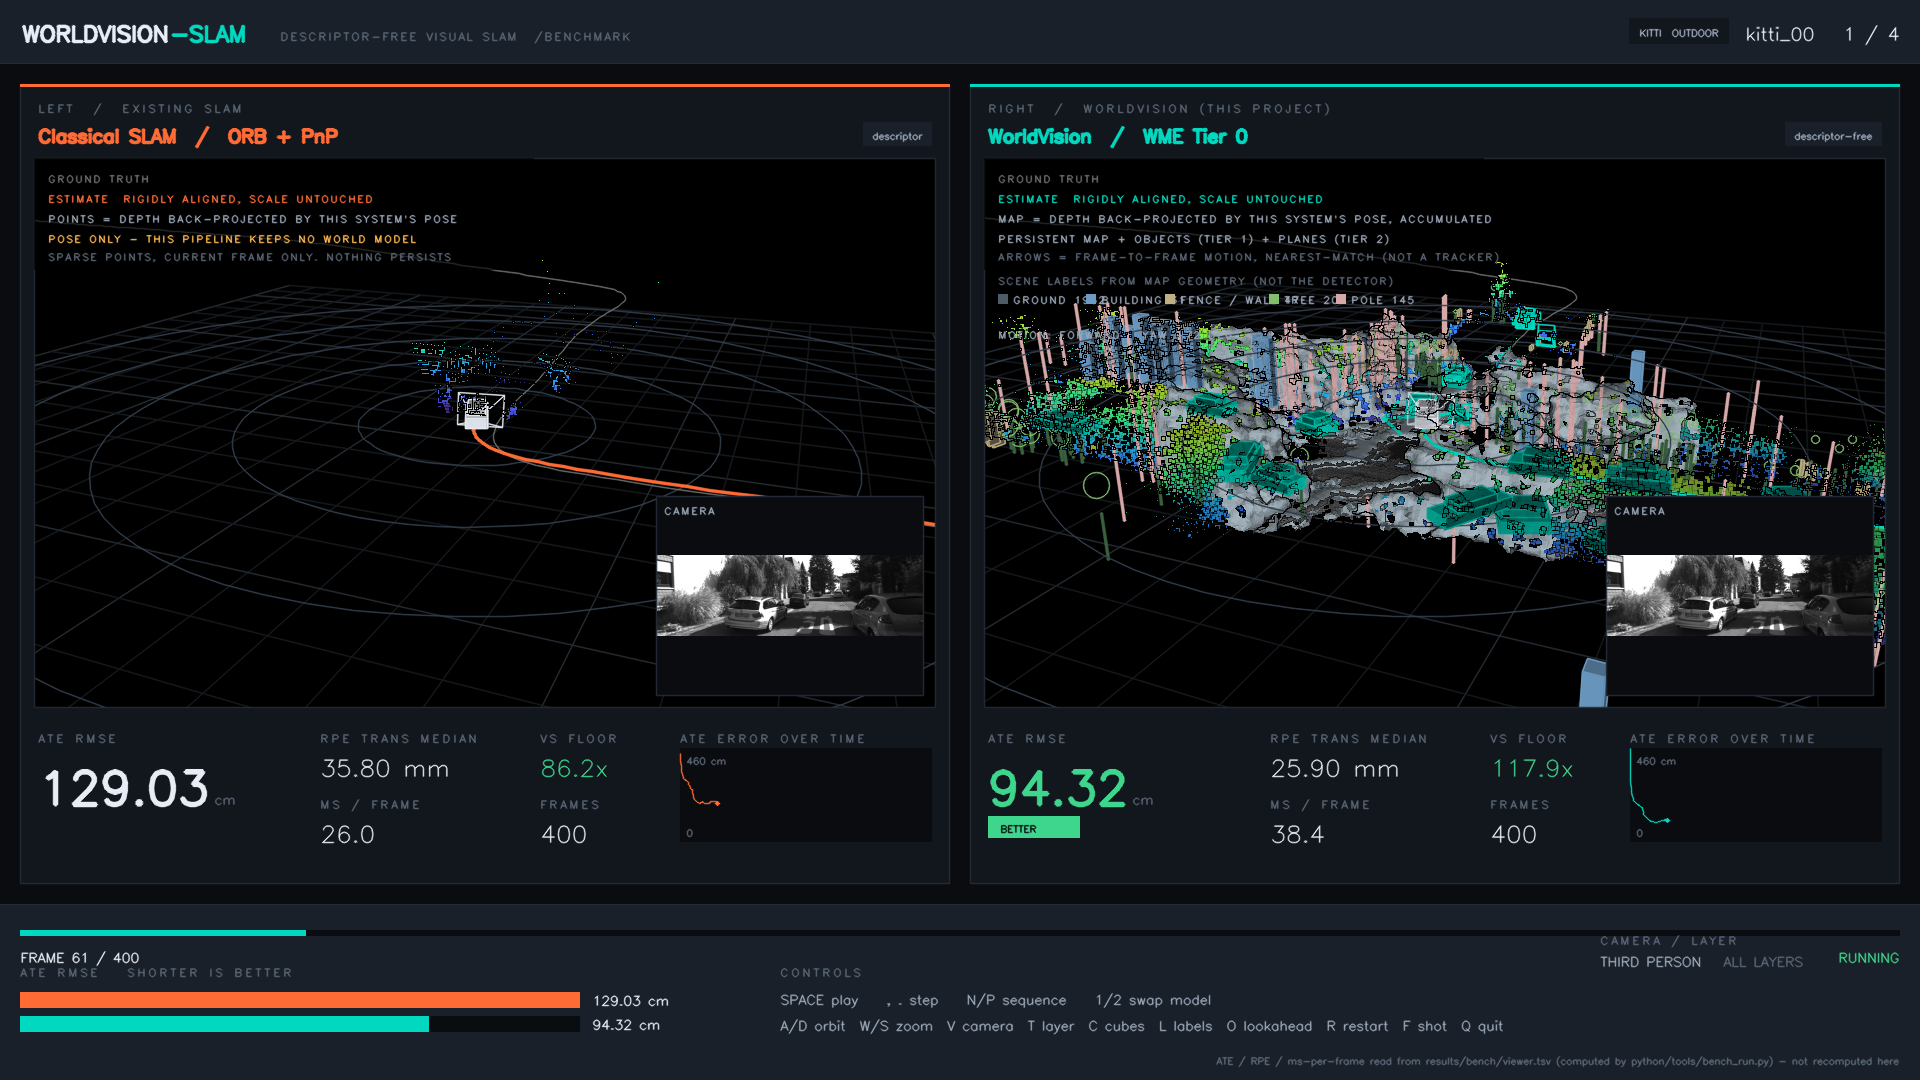
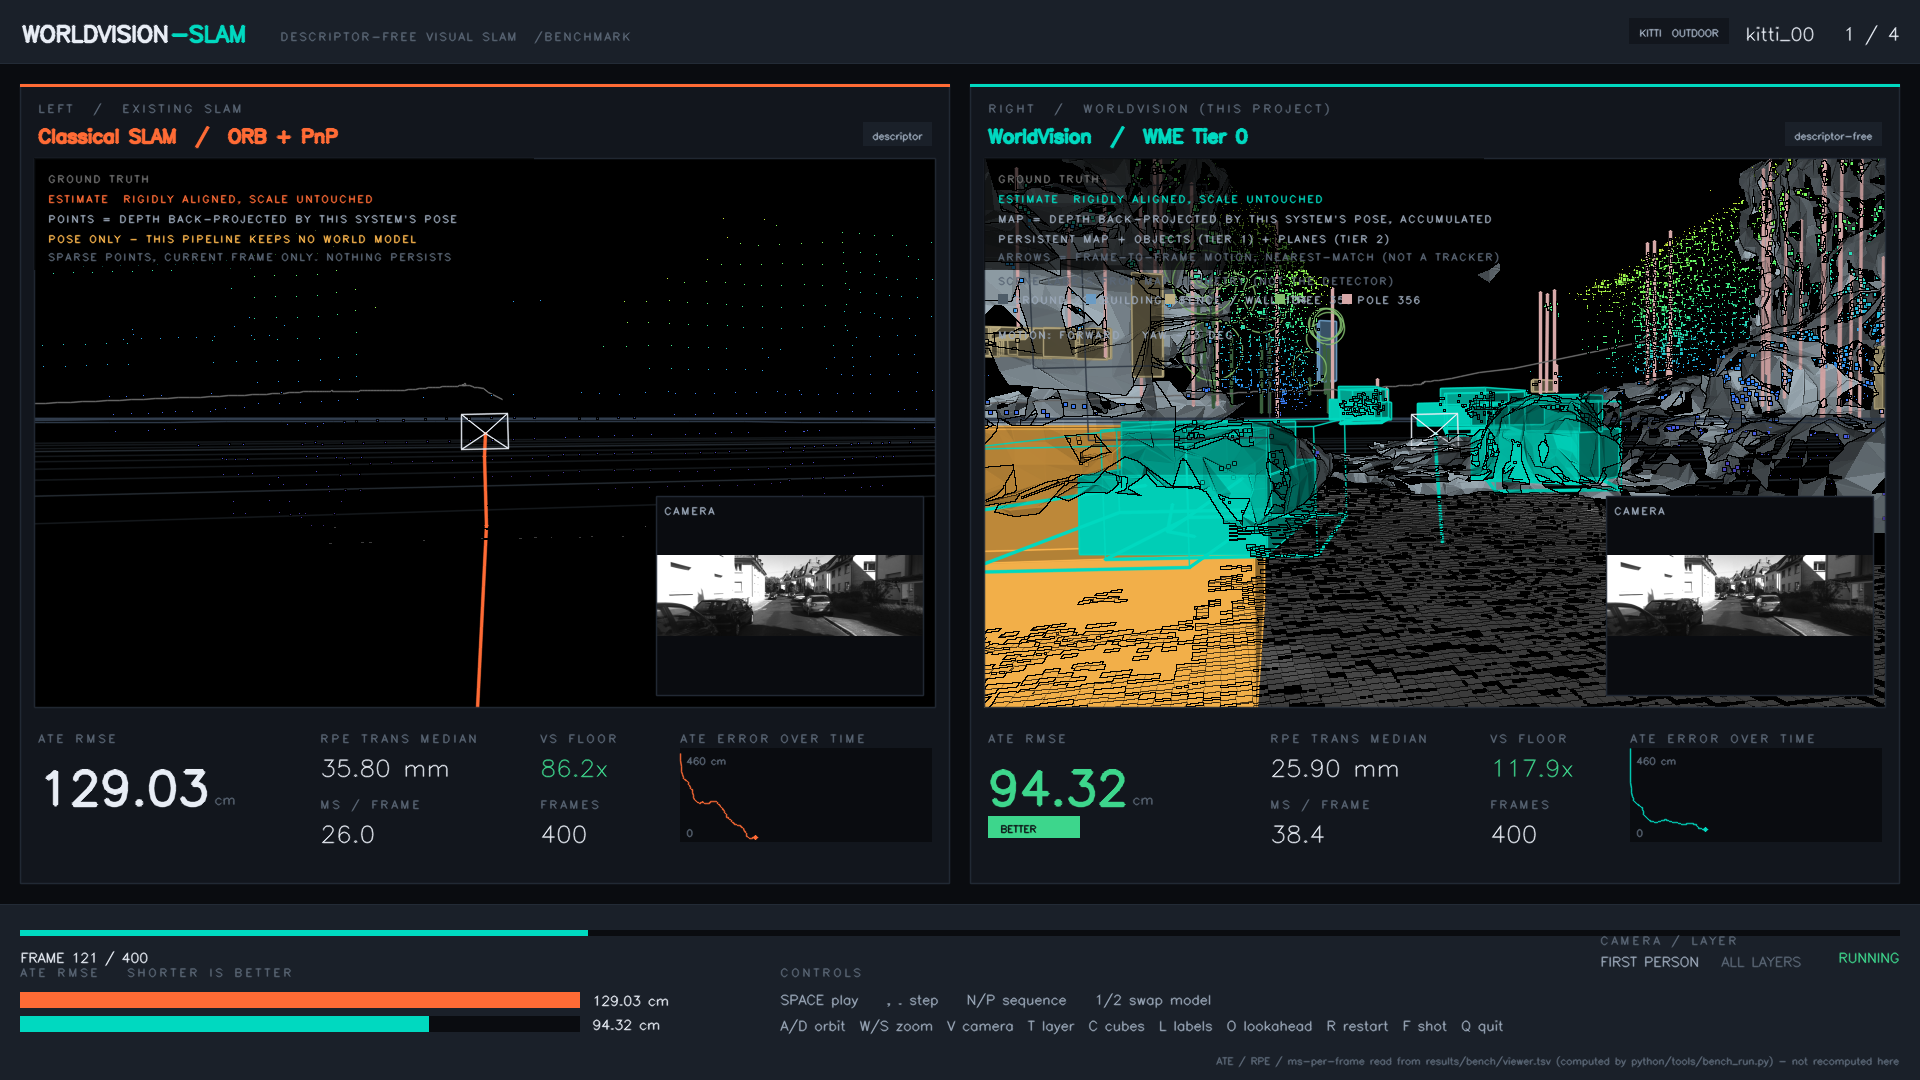
The road was being meshed into boulders, and the mesh had no smoothing
Two defects, reported as "the ground looks wrong".

The surface mesh was built over the whole map, road included. The road
is already drawn as a flat intensity texture, so meshing it again turned
a flat street into lumpy rock following every stereo artefact. Ground
voxels are excluded now - anything below 40 cm over the reference plane
belongs to the road layer, not the volume.

Triangles could also span empty space. Cells adjacent in the grid can
hold vertices anywhere inside themselves, so a pair could sit far apart
and the triangle between them bridged a stretch with no observation at
all - large angular slabs of nothing. Edges are capped at twice the
voxel size.

And the mesh had no smoothing, because I had implemented the "naive"
variant, which is naive precisely in dropping the relaxation that
Gibson's paper is about. Centroids of edge crossings are exactly as
rough as their input, and a stereo map is rough. Each vertex now moves
toward the mean of its six neighbours over four passes, clamped to stay
inside its own cell - that clamp is Gibson's actual point: without it
the surface shrinks and thin structure vanishes; with it noise flattens
and detail survives. Normals are recomputed afterwards, since the old
ones described the old positions.

The road's brightness floor was raised as well. Asphalt really is dark,
so mapping intensity straight through left the whole surface reading as
black tiles, indistinguishable from empty space. The squared response
[…]

diff --git a/tools/bench_viewer.cpp b/tools/bench_viewer.cpp
@@ -965,12 +965,17 @@ struct SurfMesh {
 using DensField = std::unordered_map<std::int64_t, std::uint8_t>;
 
 inline DensField buildDensity(const std::unordered_map<std::int64_t, Splat>& cells,
-                              float voxel, const Eigen::Vector3f& e, float r2) {
+                              float voxel, const Eigen::Vector3f& e, float r2,
+                              const Eigen::Vector3f& up, float hmin) {
     DensField d;
     d.reserve(cells.size() * 3);
     const float inv = 1.0f / voxel;
     for (const auto& [k, v] : cells) {
         if ((v.p - e).squaredNorm() > r2) continue;
+        // **노면은 메시에 넣지 않는다.** 도로는 이미 밝기 텍스처로 그린다.
+        // 같은 것을 메시로 또 만들면, 평평해야 할 노면이 스테레오 잡음을 따라
+        // 울퉁불퉁한 바위 덩어리가 된다 - 실제로 그렇게 나왔다.
+        if (v.p.dot(up) < hmin) continue;
         for (int dx = -1; dx <= 1; ++dx) {
             for (int dy = -1; dy <= 1; ++dy) {
                 for (int dz = -1; dz <= 1; ++dz) {
@@ -997,7 +1002,8 @@ inline float sdfAt(const DensField& dens, const Eigen::Vector3f& p,
 // 만들 이유가 없고, 결과는 캐시된다.
 inline void surfaceNets(const std::unordered_map<std::int64_t, Splat>& cells,
                         float voxel, const Eigen::Vector3d& ego, double radius,
-                        SurfMesh& out) {
+                        const Eigen::Vector3d& up_d, double ground_h,
+                        double min_above, SurfMesh& out) {
     out.clear();
     if (cells.empty()) return;
     const float inv = 1.0f / voxel;
@@ -1005,7 +1011,9 @@ inline void surfaceNets(const std::unordered_map<std::int64_t, Splat>& cells,
     const Eigen::Vector3f e = ego.cast<float>();
     const float r2 = static_cast<float>(radius * radius);
     // 밀도장을 먼저 한 패스로 만든다. 이후 모든 조회가 O(1) 이 된다.
-    const DensField dens = buildDensity(cells, voxel, e, r2);
+    const Eigen::Vector3f upf = up_d.cast<float>().normalized();
+    const float hmin = static_cast<float>(ground_h + min_above);
+    const DensField dens = buildDensity(cells, voxel, e, r2, upf, hmin);
 
     // 셀 -> 정점 인덱스. 셀마다 정점 하나이므로 중복 제거가 필요 없다.
     std::unordered_map<std::int64_t, int> vidx;
@@ -1016,6 +1024,7 @@ inline void surfaceNets(const std::unordered_map<std::int64_t, Splat>& cells,
     cand.reserve(cells.size() * 2);
     for (const auto& [k, v] : cells) {
         if ((v.p - e).squaredNorm() > r2) continue;
+        if (v.p.dot(upf) < hmin) continue;      // 노면 제외
         // **표면 복셀만 후보로 삼는다.**
         //
         // 복셀마다 여덟 칸을 후보로 넣으면 70 만 복셀에서 후보가 560 만 개가
@@ -1094,6 +1103,57 @@ inline void surfaceNets(const std::unordered_map<std::int64_t, Splat>& cells,
                                             : Eigen::Vector3f(0, 1, 0));
     }
 
+    // **제약 이완.** Gibson 논문의 핵심이고, "Naive" 판이 생략한 부분이다.
+    //
+    // 교차점 무게중심만 쓰면 표면이 입력만큼 거칠다. 스테레오 지도는 원래
+    // 거칠므로 결과가 각진 바위 덩어리로 나온다 - 실제로 그렇게 나왔다.
+    //
+    // 각 정점을 이웃 정점들의 평균 쪽으로 조금씩 당기되, **자기 셀 밖으로는
+    // 못 나가게** 묶는다. 그 제약이 Gibson 이 말한 요점이다: 제약이 없으면
+    // 표면이 수축해 얇은 것들이 사라지고, 제약이 있으면 세부는 남으면서
+    // 잡음만 펴진다.
+    {
+        // 정점 이웃 관계는 셀 격자에서 온다. 여섯 면 이웃의 정점이 이웃이다.
+        std::vector<Eigen::Vector3f> home = out.vert;
+        const Eigen::Vector3f ax6[6] = {{voxel,0,0},{-voxel,0,0},{0,voxel,0},
+                                        {0,-voxel,0},{0,0,voxel},{0,0,-voxel}};
+        std::vector<std::int64_t> keys(out.vert.size());
+        for (const auto& [key, idx] : vidx) keys[static_cast<std::size_t>(idx)] = key;
+
+        std::vector<Eigen::Vector3f> next(out.vert.size());
+        for (int iter = 0; iter < 4; ++iter) {
+            for (std::size_t i = 0; i < out.vert.size(); ++i) {
+                Eigen::Vector3f sum = Eigen::Vector3f::Zero();
+                int n = 0;
+                for (const auto& d : ax6) {
+                    const auto it = vidx.find(voxKey(home[i] + d, inv));
+                    if (it == vidx.end()) continue;
+                    sum += out.vert[static_cast<std::size_t>(it->second)];
+                    ++n;
+                }
+                if (n < 2) { next[i] = out.vert[i]; continue; }
+                Eigen::Vector3f p = out.vert[i] * 0.5f + (sum / static_cast<float>(n)) * 0.5f;
+                // 자기 셀 안으로 되돌린다. 이것이 수축을 막는 제약이다.
+                const Eigen::Vector3f lo = home[i] - Eigen::Vector3f::Constant(voxel * 0.5f);
+                const Eigen::Vector3f hi = home[i] + Eigen::Vector3f::Constant(voxel * 0.5f);
+                next[i] = p.cwiseMax(lo).cwiseMin(hi);
+            }
+            out.vert.swap(next);
+        }
+        // 이완 후 법선을 다시 잡는다. 옛 법선은 옛 위치의 것이다.
+        for (std::size_t i = 0; i < out.vert.size(); ++i) {
+            const float h = voxel * 0.5f;
+            const Eigen::Vector3f g(
+                sdfAt(dens, out.vert[i] + Eigen::Vector3f(h,0,0), inv, iso) -
+                sdfAt(dens, out.vert[i] - Eigen::Vector3f(h,0,0), inv, iso),
+                sdfAt(dens, out.vert[i] + Eigen::Vector3f(0,h,0), inv, iso) -
+                sdfAt(dens, out.vert[i] - Eigen::Vector3f(0,h,0), inv, iso),
+                sdfAt(dens, out.vert[i] + Eigen::Vector3f(0,0,h), inv, iso) -
+                sdfAt(dens, out.vert[i] - Eigen::Vector3f(0,0,h), inv, iso));
+            if (g.norm() > 1e-9f) out.norm[i] = g.normalized();
+        }
+    }
+
     // 면: 부호가 바뀌는 격자 엣지마다, 그 엣지를 공유하는 네 셀의 정점을 잇는다.
     const Eigen::Vector3f ax[3] = {{voxel,0,0}, {0,voxel,0}, {0,0,voxel}};
     for (const auto& [key, c] : cand) {
@@ -1105,6 +1165,18 @@ inline void surfaceNets(const std::unordered_map<std::int64_t, Splat>& cells,
             const auto i2 = vidx.find(voxKey(c - ax[b] - ax[d2], inv));
             const auto i3 = vidx.find(voxKey(c - ax[d2], inv));
             if (i1 == vidx.end() || i2 == vidx.end() || i3 == vidx.end()) continue;
+            // **빈 공간을 가로지르는 삼각형을 만들지 않는다.**
+            //
+            // 격자에서 이웃한 셀이라도 그 안의 정점은 셀 안 어디에나 놓일 수
+            // 있다. 두 정점이 멀면 삼각형이 관측이 없는 구간을 건너뛰어,
+            // 화면에는 있지도 않은 커다란 각진 덩어리가 생긴다.
+            const float lim2 = 4.0f * voxel * voxel;
+            const Eigen::Vector3f& v0 = out.vert[static_cast<std::size_t>(self->second)];
+            if ((out.vert[static_cast<std::size_t>(i1->second)] - v0).squaredNorm() > lim2 ||
+                (out.vert[static_cast<std::size_t>(i2->second)] - v0).squaredNorm() > lim2 ||
+                (out.vert[static_cast<std::size_t>(i3->second)] - v0).squaredNorm() > lim2) {
+                continue;
+            }
             out.tri.push_back({self->second, i1->second, i2->second});
             out.tri.push_back({self->second, i2->second, i3->second});
         }
@@ -1449,10 +1521,15 @@ public:
             // 격자면이 대신한다.
             if (w < 1.0) continue;
 
-            // 제곱으로 대비를 세운다. 아스팔트는 배경으로 가라앉고 흰 페인트만
-            // 남아야 선이 선으로 읽힌다.
+            // **밑바닥을 올린다.** 아스팔트는 실제로 어둡다. 밝기를 그대로
+            // 옮기면 노면 전체가 검은 격자로 보이고, 도로가 있는 자리와 아무
+            // 것도 없는 자리가 화면에서 구분되지 않는다 - 실제로 그렇게
+            // 나왔다. 노면은 여기 도로가 있다는 사실부터 보여야 한다.
+            //
+            // 제곱은 그대로 둔다. 흰 페인트가 아스팔트보다 확실히 밝게 남는
+            // 것이 이 층의 목적이기 때문이다.
             const double t = std::clamp((c.intensity - lo) / span, 0.0, 1.0);
-            const double v = 22.0 + 225.0 * t * t;
+            const double v = 58.0 + 190.0 * t * t;
             cv::fillConvexPoly(img_, poly, 4, cv::Scalar(v, v, v), cv::LINE_8);
             const double zz = (M * (c3 - eye)).z();
             if (zz > 1e-3) cv::fillConvexPoly(zbuf_, poly, 4, cv::Scalar(zz), cv::LINE_8);
@@ -3399,8 +3476,11 @@ int main(int argc, char** argv) {
                     if ((ego_k - surf_at[k]).norm() > acc[k].voxel * 4.0) {
                         // 표면은 자차 주변만 만든다. 먼 곳은 화면에서
                         // 삼각형이 픽셀보다 작아 큐브와 구분되지 않는다.
+                        // 노면 위 40 cm 부터가 구조물이다. 그 아래는 도로이고,
+                        // 도로는 밝기 텍스처가 이미 맡고 있다.
                         surfaceNets(acc[k].cells, acc[k].voxel, ego_k,
-                                    std::min(map_r, 22.0), surf[k]);
+                                    std::min(map_r, 22.0), ob.world_up,
+                                    plane_h, 0.40, surf[k]);
                         surf_at[k] = ego_k;
                     }
                     cloud[k].surface(surf[k], ob, vp.width * 0.9,
